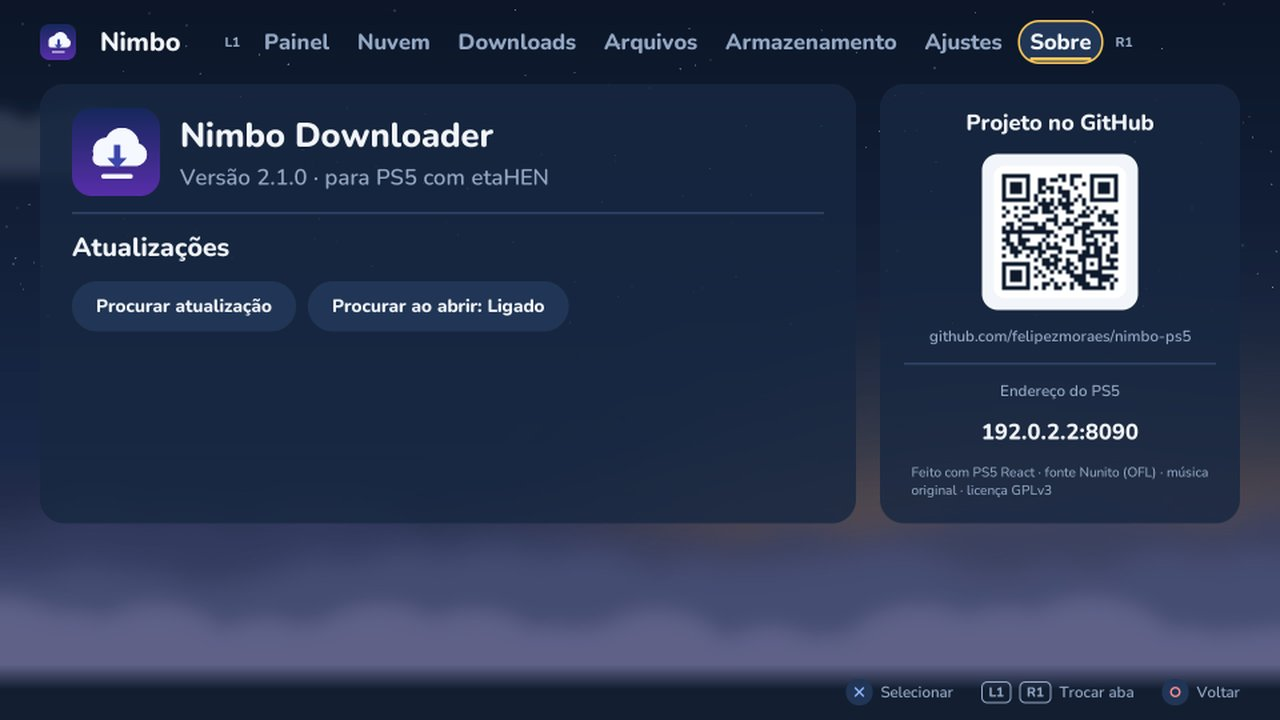
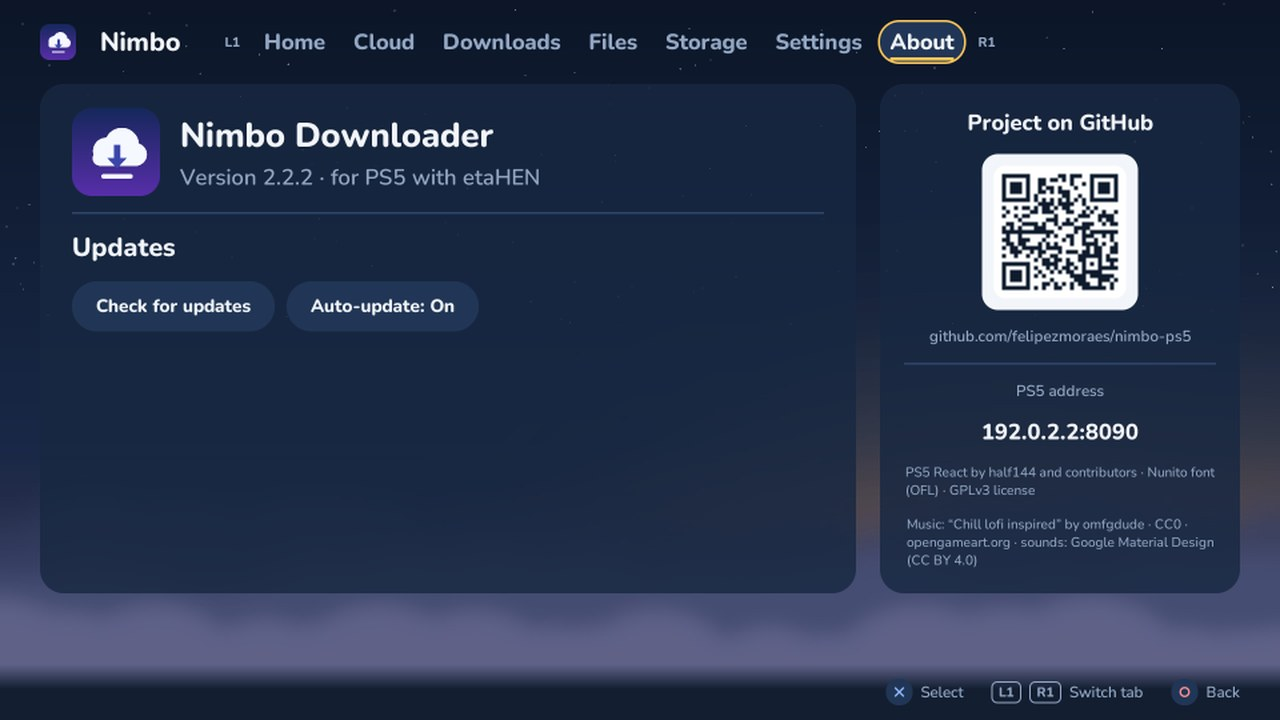
README em inglês com prints novos; versão em português em README.pt-BR.md
Claude-Session: https://claude.ai/code/session_01VoBNKVintxXRYc7w8qHtWf

diff --git a/README.md b/README.md
@@ -1,107 +1,112 @@
-# Nimbo Downloader para PS5
+# Nimbo Downloader for PS5
 
-App nativo para PS5 desbloqueado que baixa da sua nuvem (**TorBox, Real-Debrid, AllDebrid e Premiumize**) direto para o SSD interno, USB ou armazenamento estendido. Ele extrai os arquivos, organiza o que foi baixado e mostra o que está ocupando espaço. Você usa pelo controle, na TV, ou pelo celular.
+**English** · [Português (Brasil)](README.pt-BR.md)
 
-![Painel](docs/screens/home.jpg)
+A native app for jailbroken PS5 consoles that downloads from your cloud (**TorBox, Real-Debrid, AllDebrid and Premiumize**) straight to the internal SSD, USB or extended storage. It extracts archives, organizes your downloads and shows what is taking up space. Use it with the controller on the TV, or from your phone.
 
-## O que ele faz
+![Home](docs/screens/home.jpg)
+
+## What it does
 
 | | |
 |---|---|
-| **Nuvem** | Junta TorBox, Real-Debrid, AllDebrid e Premiumize numa lista só, com busca (inclusive pelo nome dos arquivos), filtros por serviço e ordenação. Baixa só os arquivos marcados e pode apagar da nuvem depois. |
-| **Login por QR code** | TorBox, Real-Debrid e AllDebrid conectam apontando o celular para a TV. Premiumize usa a chave da API, digitada no PS5 ou colada pelo celular. |
-| **Downloads** | Várias conexões por arquivo, retomada, fila salva, limite de velocidade e "baixar quando ficar pronto" na nuvem. |
-| **Extração** | ZIP (com senha), 7z, RAR e RAR5, inclusive em várias partes. Pode extrair ao terminar e apagar o compactado. |
-| **Arquivos** | Navega por SSD, USB e estendido. Botão **Selecionar** (ou □) marca vários arquivos e pastas para copiar, mover, apagar, renomear e extrair. Mostra o nome do jogo ao lado de arquivos como `PPSA07784.ffpfsc`, a data de cada arquivo, ícones por tipo e ordenação. |
-| **Armazenamento** | Uso por tipo, maiores pastas e arquivos (com nome do jogo e data), sugestões de limpeza e, para cada jogo instalado, versão, data de instalação e tamanho do jogo, da atualização e das DLCs. Apagar roda em segundo plano, sem travar a tela. |
-| **Celular** | Página com PIN, na mesma rede, para ver a fila, colar links (magnet, hoster, direto) em qualquer serviço conectado e baixar da nuvem. |
-| **Idiomas** | Português (Brasil), English, Español, Français, Deutsch e Italiano, inclusive na página do celular. Segue o idioma do PS5 na primeira vez. |
-| **Atualização automática** | Procura novas Releases deste repositório a cada 6 h e instala sozinha quando não há downloads rodando. Guarda a versão anterior para voltar se algo der errado. |
-| **Clima** | Música lo-fi (CC0) e sons da interface, com volume e opção de desligar. Céu animado e fundo próprio na tela inicial do PS5. |
+| **Cloud** | Combines TorBox, Real-Debrid, AllDebrid and Premiumize in a single list, with search (including file names inside each item), per-service filters and sorting. Downloads only the files you mark and can delete them from the cloud afterwards. |
+| **QR code login** | TorBox, Real-Debrid and AllDebrid connect by pointing your phone at the TV. Premiumize uses its API key, typed on the PS5 or pasted from your phone. |
+| **Downloads** | Multiple connections per file, resume, a saved queue, speed limit and "download when ready" for items still being prepared in the cloud. |
+| **Extraction** | ZIP (including password-protected), 7z, RAR and RAR5, also split into parts. Can extract when a download finishes and delete the archive afterwards. Saved archive passwords can be added, edited and deleted. |
+| **Files** | Browse the SSD, USB and extended storage. The **Select** button (or □) marks several files and folders to copy, move, delete, rename and extract. Shows the game name next to files like `PPSA07784.ffpfsc`, the date of each file, icons by type and sorting. |
+| **Storage** | Usage by type, largest folders and files (with game name and date), cleanup suggestions and, for each installed game, version, install date and the size of the game, its updates and DLCs. Deleting runs in the background without freezing the screen. |
+| **Phone** | A PIN-protected page on the same network to see the queue, paste links (magnet, file hosts, direct) into any connected service and download from the cloud. |
+| **Languages** | Português (Brasil), English, Español, Français, Deutsch and Italiano, including the phone page. Follows the PS5 language on first launch. |
+| **Auto-update** | Checks this repository's Releases every 6 hours and installs new versions by itself when no downloads are running. Keeps the previous version so you can roll back. |
+| **Backup of your settings** | Logins, settings and the queue are also saved to `/data/nimbo-settings`, so they come back if you delete the app from the PS5 menu and reinstall it. |
+| **Ambience** | Lo-fi music (CC0) and interface sounds, with volume control and an off switch. Animated sky and custom art on the PS5 home screen. |
 
 <p>
 <img src="docs/screens/cloud.jpg" width="49%"> <img src="docs/screens/files.jpg" width="49%">
 <img src="docs/screens/storage.jpg" width="49%"> <img src="docs/screens/about.jpg" width="49%">
 </p>
 
-## Requisitos
+## Requirements
 
-- PS5 desbloqueado com **etaHEN** e **ShadowMount+**. Testado no firmware 12.40.
-- Conta em pelo menos um serviço (TorBox, Real-Debrid, AllDebrid ou Premiumize), só para a aba Nuvem. Arquivos, Armazenamento e links diretos funcionam sem conta.
+- A jailbroken PS5 with **etaHEN** and **ShadowMount+**. Tested on firmware 12.40.
+- An account with at least one service (TorBox, Real-Debrid, AllDebrid or Premiumize), only for the Cloud tab. Files, Storage and direct links work without an account.
 
-## Instalar
+## Install
 
-1. Baixe o `NimboDownloader-PS5-vX.Y.Z.zip` em [Releases](../../releases).
-2. Copie a pasta `PPSA48921` inteira para `/data/homebrew/` no PS5. O jeito mais fácil é pelo FTP do etaHEN (porta 1337), com FileZilla ou um app de FTP no celular.
-3. Espere o ShadowMount+ registrar o app: o ícone aparece na tela inicial. Se não aparecer, reinicie o PS5 e rode o etaHEN de novo.
-4. Abra o Nimbo e conecte seu serviço em **Ajustes › Serviços de nuvem**.
+1. Download `NimboDownloader-PS5-vX.Y.Z.zip` from [Releases](../../releases).
+2. Copy the whole `PPSA48921` folder to `/data/homebrew/` on the PS5. The easiest way is etaHEN's FTP server (port 1337), using FileZilla or an FTP app on your phone.
+3. Wait for ShadowMount+ to register the app: its icon shows up on the home screen. If it doesn't, restart the PS5 and run etaHEN again.
+4. Open Nimbo and connect your service in **Settings › Cloud services**.
 
-**Atualizar:** é automático (desligue em **Sobre › Atualizar sozinho**). Para forçar: **Sobre › Procurar atualização › Atualizar**. Depois, feche e abra o app. Se a versão nova der problema, **Sobre › Voltar para a versão anterior**.
+**Update:** automatic (turn it off in **About › Auto-update**). To force it: **About › Check for updates › Update**. Then close and reopen the app. If the new version misbehaves, use **About › Go back to the previous version**. To update manually, replace the `PPSA48921` folder over FTP; there's no need to delete the app from the PS5 menu.
 
-## Controles
+## Controls
 
-| Botão | Ação |
+| Button | Action |
 |---|---|
-| ✕ | Selecionar |
-| ○ | Voltar / fechar |
-| △ | Atualizar a nuvem |
-| □ | Buscar (Nuvem) · selecionar vários (Arquivos) |
-| L1 / R1 | Trocar de aba |
+| ✕ | Select |
+| ○ | Back / close |
+| △ | Refresh the cloud |
+| □ | Search (Cloud) · select several (Files) |
+| L1 / R1 | Switch tab |
 
-## Estrutura
+## Project layout
 
 ```
-nimbo/            app V2 (PS5 React): index.jsx, src/, assets/, sce_sys/
-  src/engine.js   fila de downloads, extração e cópias
-  src/torbox.js   API do TorBox
-  src/debrid/     Real-Debrid, AllDebrid, Premiumize e a interface comum dos serviços
-  src/i18n.js     idiomas (traduções em src/i18n/strings.js, geradas de tools/i18n.tsv)
-  src/music.jsx   música de fundo (assets/music: a faixa CC0 em trechos WAV)
-  src/update.js   atualização pelo GitHub
-  src/phone.js    servidor e página do celular
-tools/            geradores de arte (make_art, make_keyart, make_dds) e i18n.py (traduções)
-src/, web/        V1 (payload ELF + interface no navegador)
-docs/             LEIA-ME e prints
+nimbo/            V2 app (PS5 React): index.jsx, src/, assets/, sce_sys/
+  src/engine.js   download queue, extraction and copies
+  src/torbox.js   TorBox API
+  src/debrid/     Real-Debrid, AllDebrid, Premiumize and the common service interface
+  src/i18n.js     languages (translations in src/i18n/strings.js, generated from tools/i18n.tsv)
+  src/music.jsx   background music (assets/music: the CC0 track split into WAV segments)
+  src/update.js   updates from GitHub
+  src/phone.js    phone server and web page
+tools/            art generators (make_art, make_keyart, make_dds) and i18n.py (translations)
+src/, web/        V1 (ELF payload + browser interface)
+docs/             readme files and screenshots
 ```
 
-## Compilar
+## Building
 
-O app é feito com **PS5 React** (React sobre QuickJS, renderização nativa em 1080p).
+The app is built with **PS5 React** (React on QuickJS, native rendering at 1080p).
 
 ```bash
-# dentro do PS5 React
-python3 tools/cli.py dev   --app-dir /caminho/nimbo-ps5/nimbo   # prévia no PC
-python3 tools/cli.py build --app-dir /caminho/nimbo-ps5/nimbo   # gera dist/PPSA48921
+# inside PS5 React
+python3 tools/cli.py dev   --app-dir /path/to/nimbo-ps5/nimbo   # preview on the PC
+python3 tools/cli.py build --app-dir /path/to/nimbo-ps5/nimbo   # builds dist/PPSA48921
 ```
 
-A arte é gerada pelos scripts em `tools/`. A tela inicial do PS5 usa `sce_sys/pic0.dds` (3840×2160, BC7), criado por `tools/make_dds.py`.
+The art is generated by the scripts in `tools/`. The PS5 home screen uses `sce_sys/pic0.dds` (3840×2160, BC7), created by `tools/make_dds.py`.
 
-**Traduções:** edite `tools/i18n.tsv` (o texto em português é a chave) e rode `python3 tools/i18n.py build`, que gera `nimbo/src/i18n/strings.js` e avisa o que faltar.
+**Translations:** edit `tools/i18n.tsv` (the Portuguese text is the key) and run `python3 tools/i18n.py build`. It generates `nimbo/src/i18n/strings.js` and reports anything missing.
 
-**Publicar uma versão:** troque `APP_VERSION` em `nimbo/src/update.js` e `version` em `nimbo/app.json`, compile e crie uma Release com a tag `vX.Y.Z` e o zip anexado. O nome do zip precisa conter "PS5" e a pasta `PPSA48921` dentro dele, porque é isso que o app procura para se atualizar.
+**Publishing a version:** change `APP_VERSION` in `nimbo/src/update.js` and `version` in `nimbo/app.json`, build, and create a Release tagged `vX.Y.Z` with the zip attached. The zip name must contain "PS5" and the `PPSA48921` folder must be inside it, because that's what the app looks for when updating.
 
-## Versão 1 (legado)
+## Version 1 (legacy)
 
-A primeira versão era um payload ELF (`nimbo-ps5.elf`), rodado pelo PS5 Payload Manager, com a interface aberta no navegador do PS5. O código continua em `src/` e `web/`. Para compilar: `./scripts/build-deps-ps5.sh && make ps5 && ./scripts/package.sh` (SDK em `/opt/ps5-payload-sdk`).
+The first version was an ELF payload (`nimbo-ps5.elf`) run by PS5 Payload Manager, with its interface opened in the PS5 web browser. The code is still in `src/` and `web/`. To build it: `./scripts/build-deps-ps5.sh && make ps5 && ./scripts/package.sh` (SDK in `/opt/ps5-payload-sdk`).
 
-## Aviso legal
+## Legal notice
 
-O Nimbo Downloader é um **gerenciador de downloads e de arquivos**. Ele não fornece, hospeda, indexa nem indica nenhum conteúdo. Ele só transfere arquivos que o próprio usuário guardou na conta dele em um serviço de terceiros, ou links que o próprio usuário informou.
+Nimbo Downloader is a **download and file manager**. It does not provide, host, index or point to any content. It only transfers files that the user stored in their own account on a third-party service, or links the user entered.
 
-- O app **não foi criado para pirataria** nem para contornar proteção de direitos autorais, e o autor não apoia esse uso. A finalidade é baixar e organizar conteúdo que você tem o direito de usar: seus backups, homebrew, software livre, mídia de domínio público ou conteúdo adquirido legalmente.
-- **A responsabilidade pelo que é baixado é exclusivamente do usuário.** Cabe a ele cumprir as leis do seu país e os termos de uso dos serviços que usa (TorBox, Real-Debrid, AllDebrid, Premiumize e outros).
-- Desbloquear o console pode violar os termos de uso do fabricante, anular a garantia e trazer riscos ao aparelho. Faça isso por sua conta e risco.
-- Projeto pessoal e independente, **sem vínculo** com Sony Interactive Entertainment, PlayStation, TorBox, Real-Debrid, AllDebrid, Premiumize ou qualquer serviço citado. Marcas citadas pertencem aos seus donos.
-- O software é fornecido **"como está", sem garantias**, nos termos da licença GPLv3. O autor não responde por perda de dados, danos ao console ou mau uso.
+- The app **was not made for piracy** or for circumventing copyright protection, and the author does not endorse such use. Its purpose is to download and organize content you have the right to use: your own backups, homebrew, free software, public-domain media or legally acquired content.
+- **The user is solely responsible for what they download.** It is up to the user to follow the laws of their country and the terms of the services they use (TorBox, Real-Debrid, AllDebrid, Premiumize and others).
+- Jailbreaking a console may violate the manufacturer's terms of use, void the warranty and put the device at risk. Do it at your own risk.
+- This is a personal, independent project with **no affiliation** with Sony Interactive Entertainment, PlayStation, TorBox, Real-Debrid, AllDebrid, Premiumize or any service mentioned. Trademarks belong to their owners.
+- The software is provided **"as is", without warranty**, under the GPLv3 license. The author is not liable for data loss, damage to the console or misuse.
 
-## Créditos e licenças
+The screenshots use free, open content (Blender open movies, Linux distributions, Creative Commons music) and made-up game names.
 
-O Nimbo é GPLv3. Tudo o que vem de terceiros tem licença que permite usar e redistribuir, e está listado em **[CREDITS.md](CREDITS.md)**:
+## Credits and licenses
 
-- **Música:** “Chill lofi inspired”, de omfgdude ([OpenGameArt](https://opengameart.org/content/chill-lofi-inspired)), **CC0** (domínio público: uso livre, inclusive comercial, sem exigir crédito).
-- **Sons da interface:** Google Material Design sound resources, **CC BY 4.0** (crédito no app e no CREDITS.md).
-- **Fonte:** Nunito, **SIL OFL 1.1**.
-- **Framework:** PS5 React, de half144 e colaboradores (https://github.com/half144/ps5-react), GPLv3.
-- **qrcode-generator** (MIT). A V1 usa cJSON, curl, mbedTLS, libarchive, zlib e xz.
+Nimbo is GPLv3. Everything from third parties is licensed for use and redistribution and is listed in **[CREDITS.md](CREDITS.md)** (in Portuguese):
 
-Os créditos também aparecem no app, na aba **Sobre**.
+- **Music:** "Chill lofi inspired" by omfgdude ([OpenGameArt](https://opengameart.org/content/chill-lofi-inspired)), **CC0** (public domain: free to use, including commercially, no credit required).
+- **Interface sounds:** Google Material Design sound resources, **CC BY 4.0** (credited in the app and in CREDITS.md).
+- **Font:** Nunito, **SIL OFL 1.1**.
+- **Framework:** PS5 React by half144 and contributors (https://github.com/half144/ps5-react), GPLv3.
+- **qrcode-generator** (MIT). V1 uses cJSON, curl, mbedTLS, libarchive, zlib and xz.
+
+The credits also appear in the app's **About** tab.

diff --git a/README.pt-BR.md b/README.pt-BR.md
@@ -1,0 +1,109 @@
+# Nimbo Downloader para PS5
+
+[English](README.md) · **Português (Brasil)**
+
+App nativo para PS5 desbloqueado que baixa da sua nuvem (**TorBox, Real-Debrid, AllDebrid e Premiumize**) direto para o SSD interno, USB ou armazenamento estendido. Ele extrai os arquivos, organiza o que foi baixado e mostra o que está ocupando espaço. Você usa pelo controle, na TV, ou pelo celular.
+
+![Painel](docs/screens/pt-BR/home.jpg)
+
+## O que ele faz
+
+| | |
+|---|---|
+| **Nuvem** | Junta TorBox, Real-Debrid, AllDebrid e Premiumize numa lista só, com busca (inclusive pelo nome dos arquivos), filtros por serviço e ordenação. Baixa só os arquivos marcados e pode apagar da nuvem depois. |
+| **Login por QR code** | TorBox, Real-Debrid e AllDebrid conectam apontando o celular para a TV. Premiumize usa a chave da API, digitada no PS5 ou colada pelo celular. |
+| **Downloads** | Várias conexões por arquivo, retomada, fila salva, limite de velocidade e "baixar quando ficar pronto" na nuvem. |
+| **Extração** | ZIP (com senha), 7z, RAR e RAR5, inclusive em várias partes. Pode extrair ao terminar e apagar o compactado. |
+| **Arquivos** | Navega por SSD, USB e estendido. Botão **Selecionar** (ou □) marca vários arquivos e pastas para copiar, mover, apagar, renomear e extrair. Mostra o nome do jogo ao lado de arquivos como `PPSA07784.ffpfsc`, a data de cada arquivo, ícones por tipo e ordenação. |
+| **Armazenamento** | Uso por tipo, maiores pastas e arquivos (com nome do jogo e data), sugestões de limpeza e, para cada jogo instalado, versão, data de instalação e tamanho do jogo, da atualização e das DLCs. Apagar roda em segundo plano, sem travar a tela. |
+| **Celular** | Página com PIN, na mesma rede, para ver a fila, colar links (magnet, hoster, direto) em qualquer serviço conectado e baixar da nuvem. |
+| **Idiomas** | Português (Brasil), English, Español, Français, Deutsch e Italiano, inclusive na página do celular. Segue o idioma do PS5 na primeira vez. |
+| **Atualização automática** | Procura novas Releases deste repositório a cada 6 h e instala sozinha quando não há downloads rodando. Guarda a versão anterior para voltar se algo der errado. |
+| **Clima** | Música lo-fi (CC0) e sons da interface, com volume e opção de desligar. Céu animado e fundo próprio na tela inicial do PS5. |
+
+<p>
+<img src="docs/screens/pt-BR/cloud.jpg" width="49%"> <img src="docs/screens/pt-BR/files.jpg" width="49%">
+<img src="docs/screens/pt-BR/storage.jpg" width="49%"> <img src="docs/screens/pt-BR/about.jpg" width="49%">
+</p>
+
+## Requisitos
+
+- PS5 desbloqueado com **etaHEN** e **ShadowMount+**. Testado no firmware 12.40.
+- Conta em pelo menos um serviço (TorBox, Real-Debrid, AllDebrid ou Premiumize), só para a aba Nuvem. Arquivos, Armazenamento e links diretos funcionam sem conta.
+
+## Instalar
+
+1. Baixe o `NimboDownloader-PS5-vX.Y.Z.zip` em [Releases](../../releases).
+2. Copie a pasta `PPSA48921` inteira para `/data/homebrew/` no PS5. O jeito mais fácil é pelo FTP do etaHEN (porta 1337), com FileZilla ou um app de FTP no celular.
+3. Espere o ShadowMount+ registrar o app: o ícone aparece na tela inicial. Se não aparecer, reinicie o PS5 e rode o etaHEN de novo.
+4. Abra o Nimbo e conecte seu serviço em **Ajustes › Serviços de nuvem**.
+
+**Atualizar:** é automático (desligue em **Sobre › Atualizar sozinho**). Para forçar: **Sobre › Procurar atualização › Atualizar**. Depois, feche e abra o app. Se a versão nova der problema, **Sobre › Voltar para a versão anterior**.
+
+## Controles
+
+| Botão | Ação |
+|---|---|
+| ✕ | Selecionar |
+| ○ | Voltar / fechar |
+| △ | Atualizar a nuvem |
+| □ | Buscar (Nuvem) · selecionar vários (Arquivos) |
+| L1 / R1 | Trocar de aba |
+
+## Estrutura
+
+```
+nimbo/            app V2 (PS5 React): index.jsx, src/, assets/, sce_sys/
+  src/engine.js   fila de downloads, extração e cópias
+  src/torbox.js   API do TorBox
+  src/debrid/     Real-Debrid, AllDebrid, Premiumize e a interface comum dos serviços
+  src/i18n.js     idiomas (traduções em src/i18n/strings.js, geradas de tools/i18n.tsv)
+  src/music.jsx   música de fundo (assets/music: a faixa CC0 em trechos WAV)
+  src/update.js   atualização pelo GitHub
+  src/phone.js    servidor e página do celular
+tools/            geradores de arte (make_art, make_keyart, make_dds) e i18n.py (traduções)
+src/, web/        V1 (payload ELF + interface no navegador)
+docs/             LEIA-ME e prints
+```
+
+## Compilar
+
+O app é feito com **PS5 React** (React sobre QuickJS, renderização nativa em 1080p).
+
+```bash
+# dentro do PS5 React
+python3 tools/cli.py dev   --app-dir /caminho/nimbo-ps5/nimbo   # prévia no PC
+python3 tools/cli.py build --app-dir /caminho/nimbo-ps5/nimbo   # gera dist/PPSA48921
+```
+
+A arte é gerada pelos scripts em `tools/`. A tela inicial do PS5 usa `sce_sys/pic0.dds` (3840×2160, BC7), criado por `tools/make_dds.py`.
+
+**Traduções:** edite `tools/i18n.tsv` (o texto em português é a chave) e rode `python3 tools/i18n.py build`, que gera `nimbo/src/i18n/strings.js` e avisa o que faltar.
+
+**Publicar uma versão:** troque `APP_VERSION` em `nimbo/src/update.js` e `version` em `nimbo/app.json`, compile e crie uma Release com a tag `vX.Y.Z` e o zip anexado. O nome do zip precisa conter "PS5" e a pasta `PPSA48921` dentro dele, porque é isso que o app procura para se atualizar.
+
+## Versão 1 (legado)
+
+A primeira versão era um payload ELF (`nimbo-ps5.elf`), rodado pelo PS5 Payload Manager, com a interface aberta no navegador do PS5. O código continua em `src/` e `web/`. Para compilar: `./scripts/build-deps-ps5.sh && make ps5 && ./scripts/package.sh` (SDK em `/opt/ps5-payload-sdk`).
+
+## Aviso legal
+
+O Nimbo Downloader é um **gerenciador de downloads e de arquivos**. Ele não fornece, hospeda, indexa nem indica nenhum conteúdo. Ele só transfere arquivos que o próprio usuário guardou na conta dele em um serviço de terceiros, ou links que o próprio usuário informou.
+
+- O app **não foi criado para pirataria** nem para contornar proteção de direitos autorais, e o autor não apoia esse uso. A finalidade é baixar e organizar conteúdo que você tem o direito de usar: seus backups, homebrew, software livre, mídia de domínio público ou conteúdo adquirido legalmente.
+- **A responsabilidade pelo que é baixado é exclusivamente do usuário.** Cabe a ele cumprir as leis do seu país e os termos de uso dos serviços que usa (TorBox, Real-Debrid, AllDebrid, Premiumize e outros).
+- Desbloquear o console pode violar os termos de uso do fabricante, anular a garantia e trazer riscos ao aparelho. Faça isso por sua conta e risco.
+- Projeto pessoal e independente, **sem vínculo** com Sony Interactive Entertainment, PlayStation, TorBox, Real-Debrid, AllDebrid, Premiumize ou qualquer serviço citado. Marcas citadas pertencem aos seus donos.
+- O software é fornecido **"como está", sem garantias**, nos termos da licença GPLv3. O autor não responde por perda de dados, danos ao console ou mau uso.
+
+## Créditos e licenças
+
+O Nimbo é GPLv3. Tudo o que vem de terceiros tem licença que permite usar e redistribuir, e está listado em **[CREDITS.md](CREDITS.md)**:
+
+- **Música:** “Chill lofi inspired”, de omfgdude ([OpenGameArt](https://opengameart.org/content/chill-lofi-inspired)), **CC0** (domínio público: uso livre, inclusive comercial, sem exigir crédito).
+- **Sons da interface:** Google Material Design sound resources, **CC BY 4.0** (crédito no app e no CREDITS.md).
+- **Fonte:** Nunito, **SIL OFL 1.1**.
+- **Framework:** PS5 React, de half144 e colaboradores (https://github.com/half144/ps5-react), GPLv3.
+- **qrcode-generator** (MIT). A V1 usa cJSON, curl, mbedTLS, libarchive, zlib e xz.
+
+Os créditos também aparecem no app, na aba **Sobre**.
